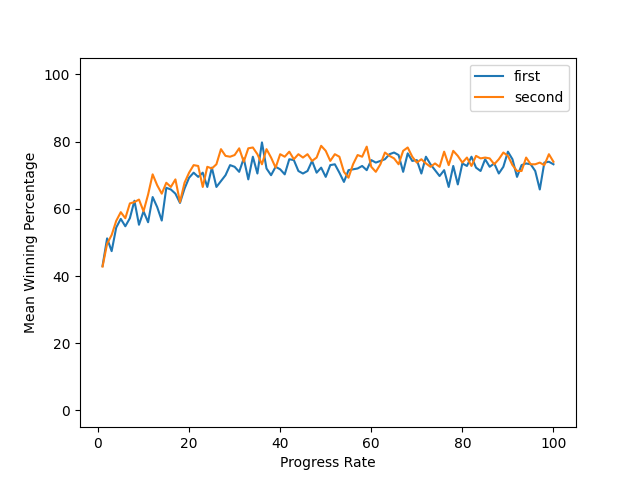
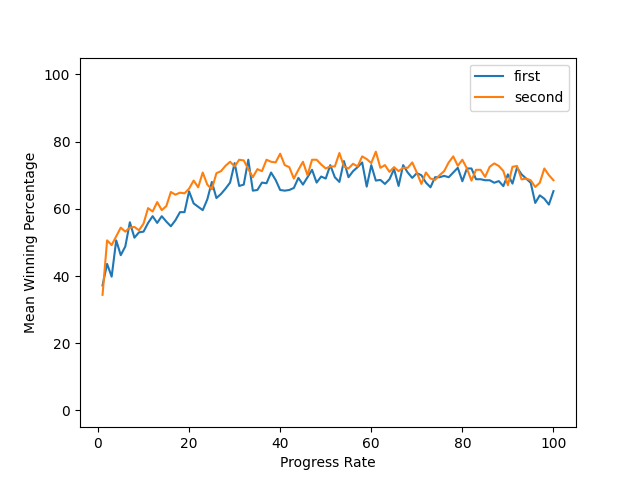
reinforce 学習率を落とす

Changed region(s): [[0.1562, 0.2812, 0.875, 0.625]]

diff --git a/drl_reinforce.py b/drl_reinforce.py
@@ -149,7 +149,7 @@ class Reinforce(SelfMatch):
 def fit_reinforce_agent(episodes = 10000, restart = False):
     # ハイパーパラメータ設定
     gamma = 0.90
-    lr = 0.000025
+    lr = 0.00001
     to_gpu = False
 
     # 環境
